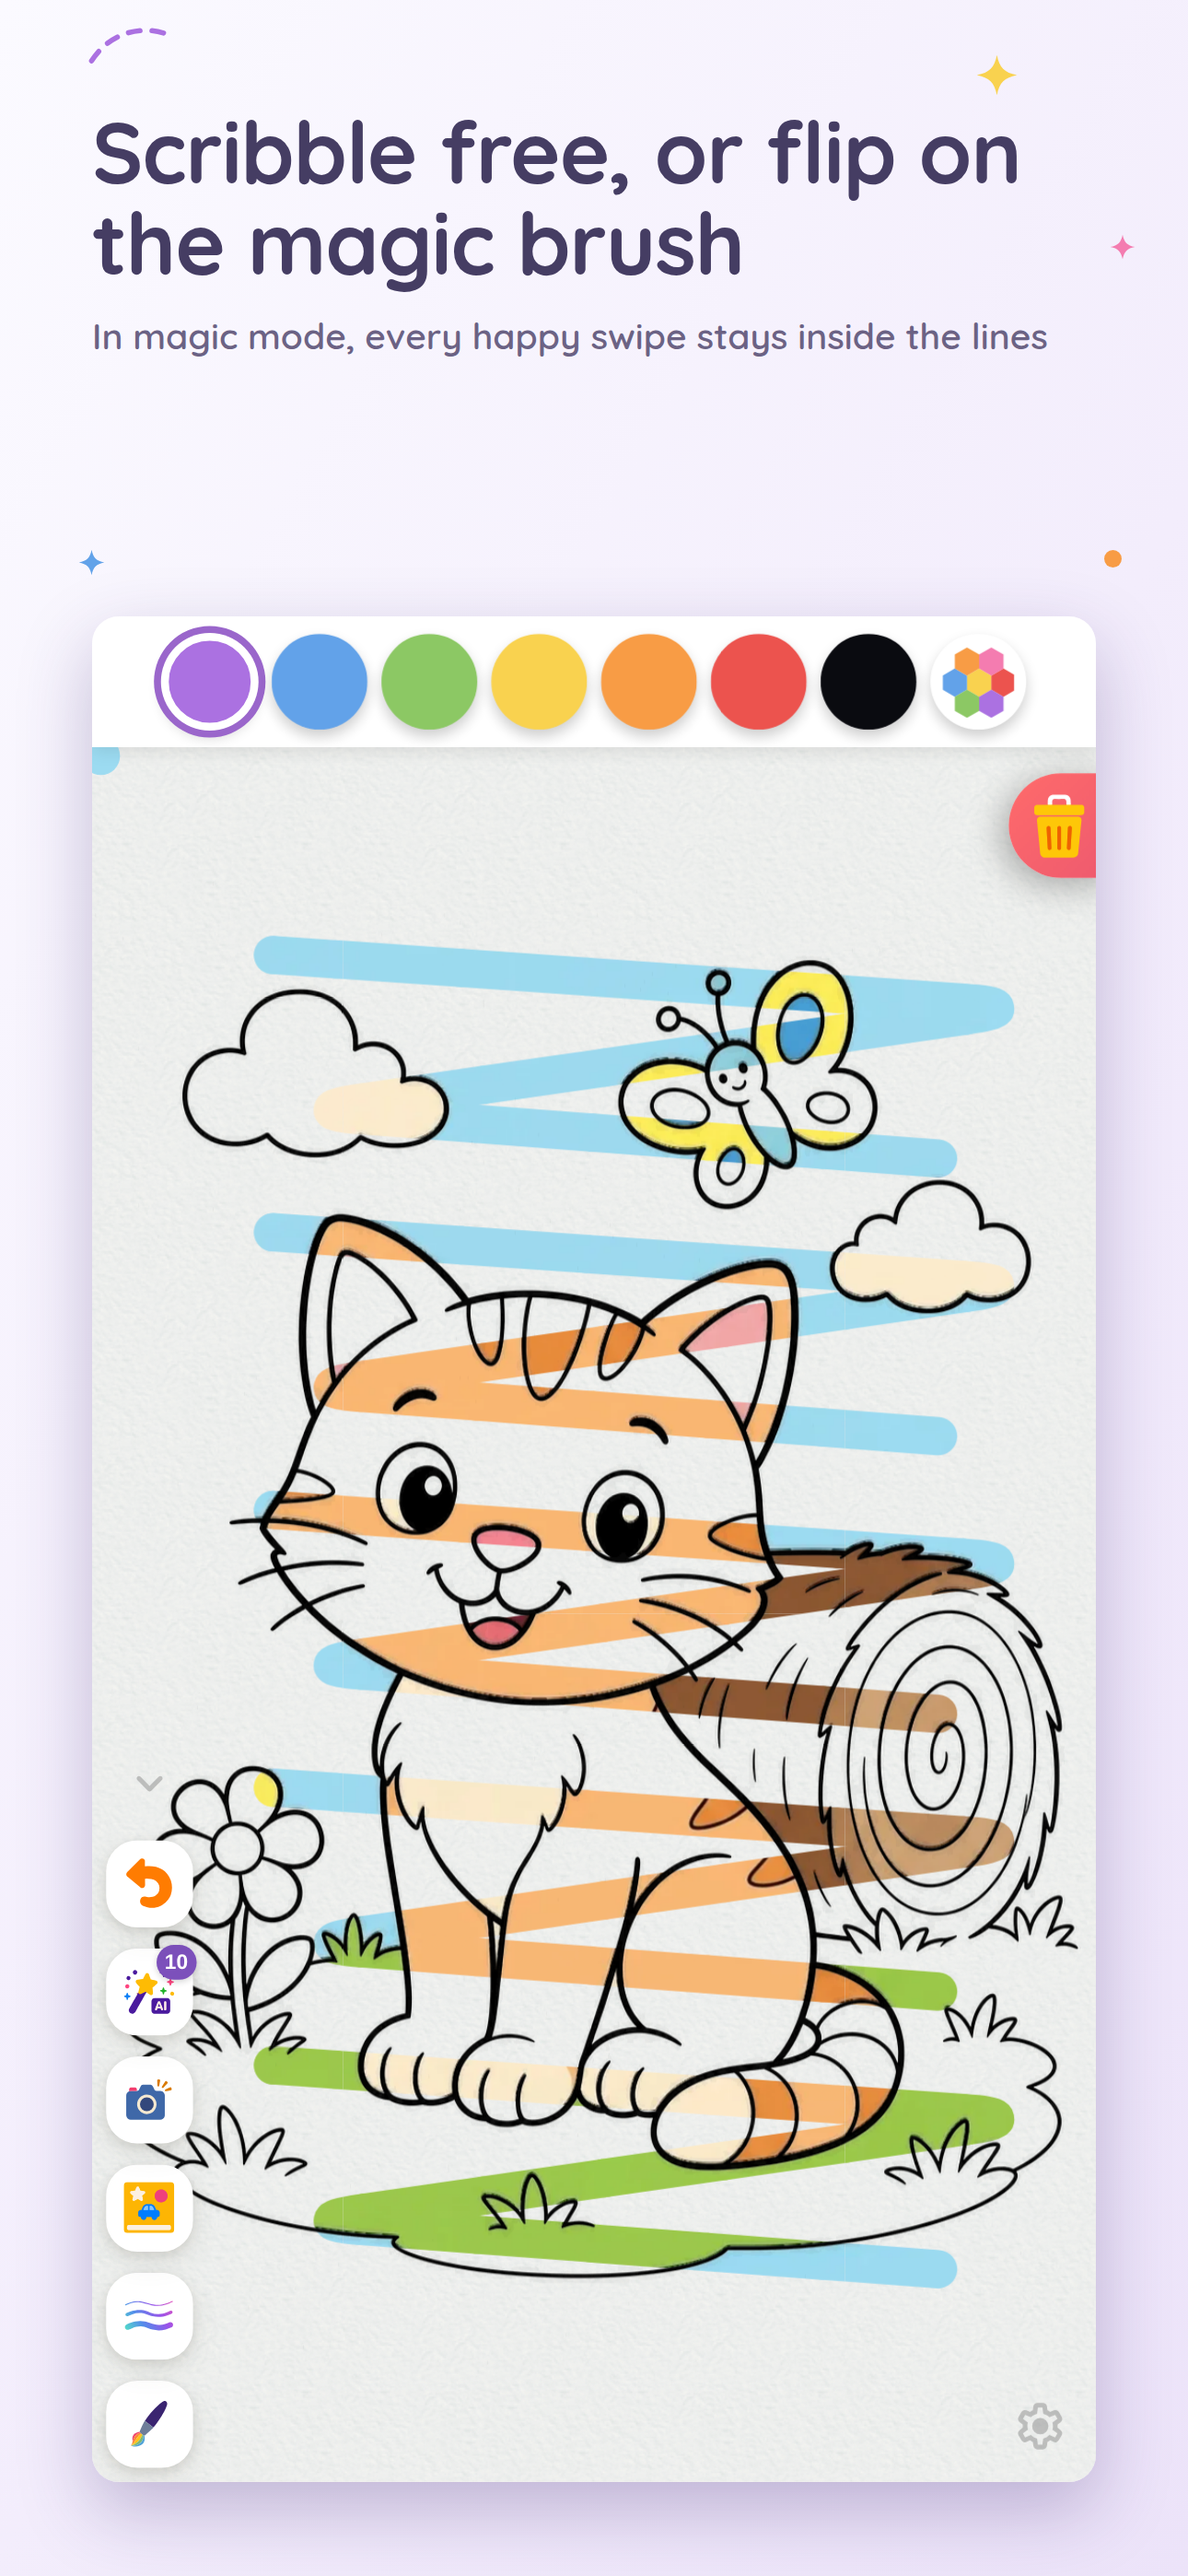
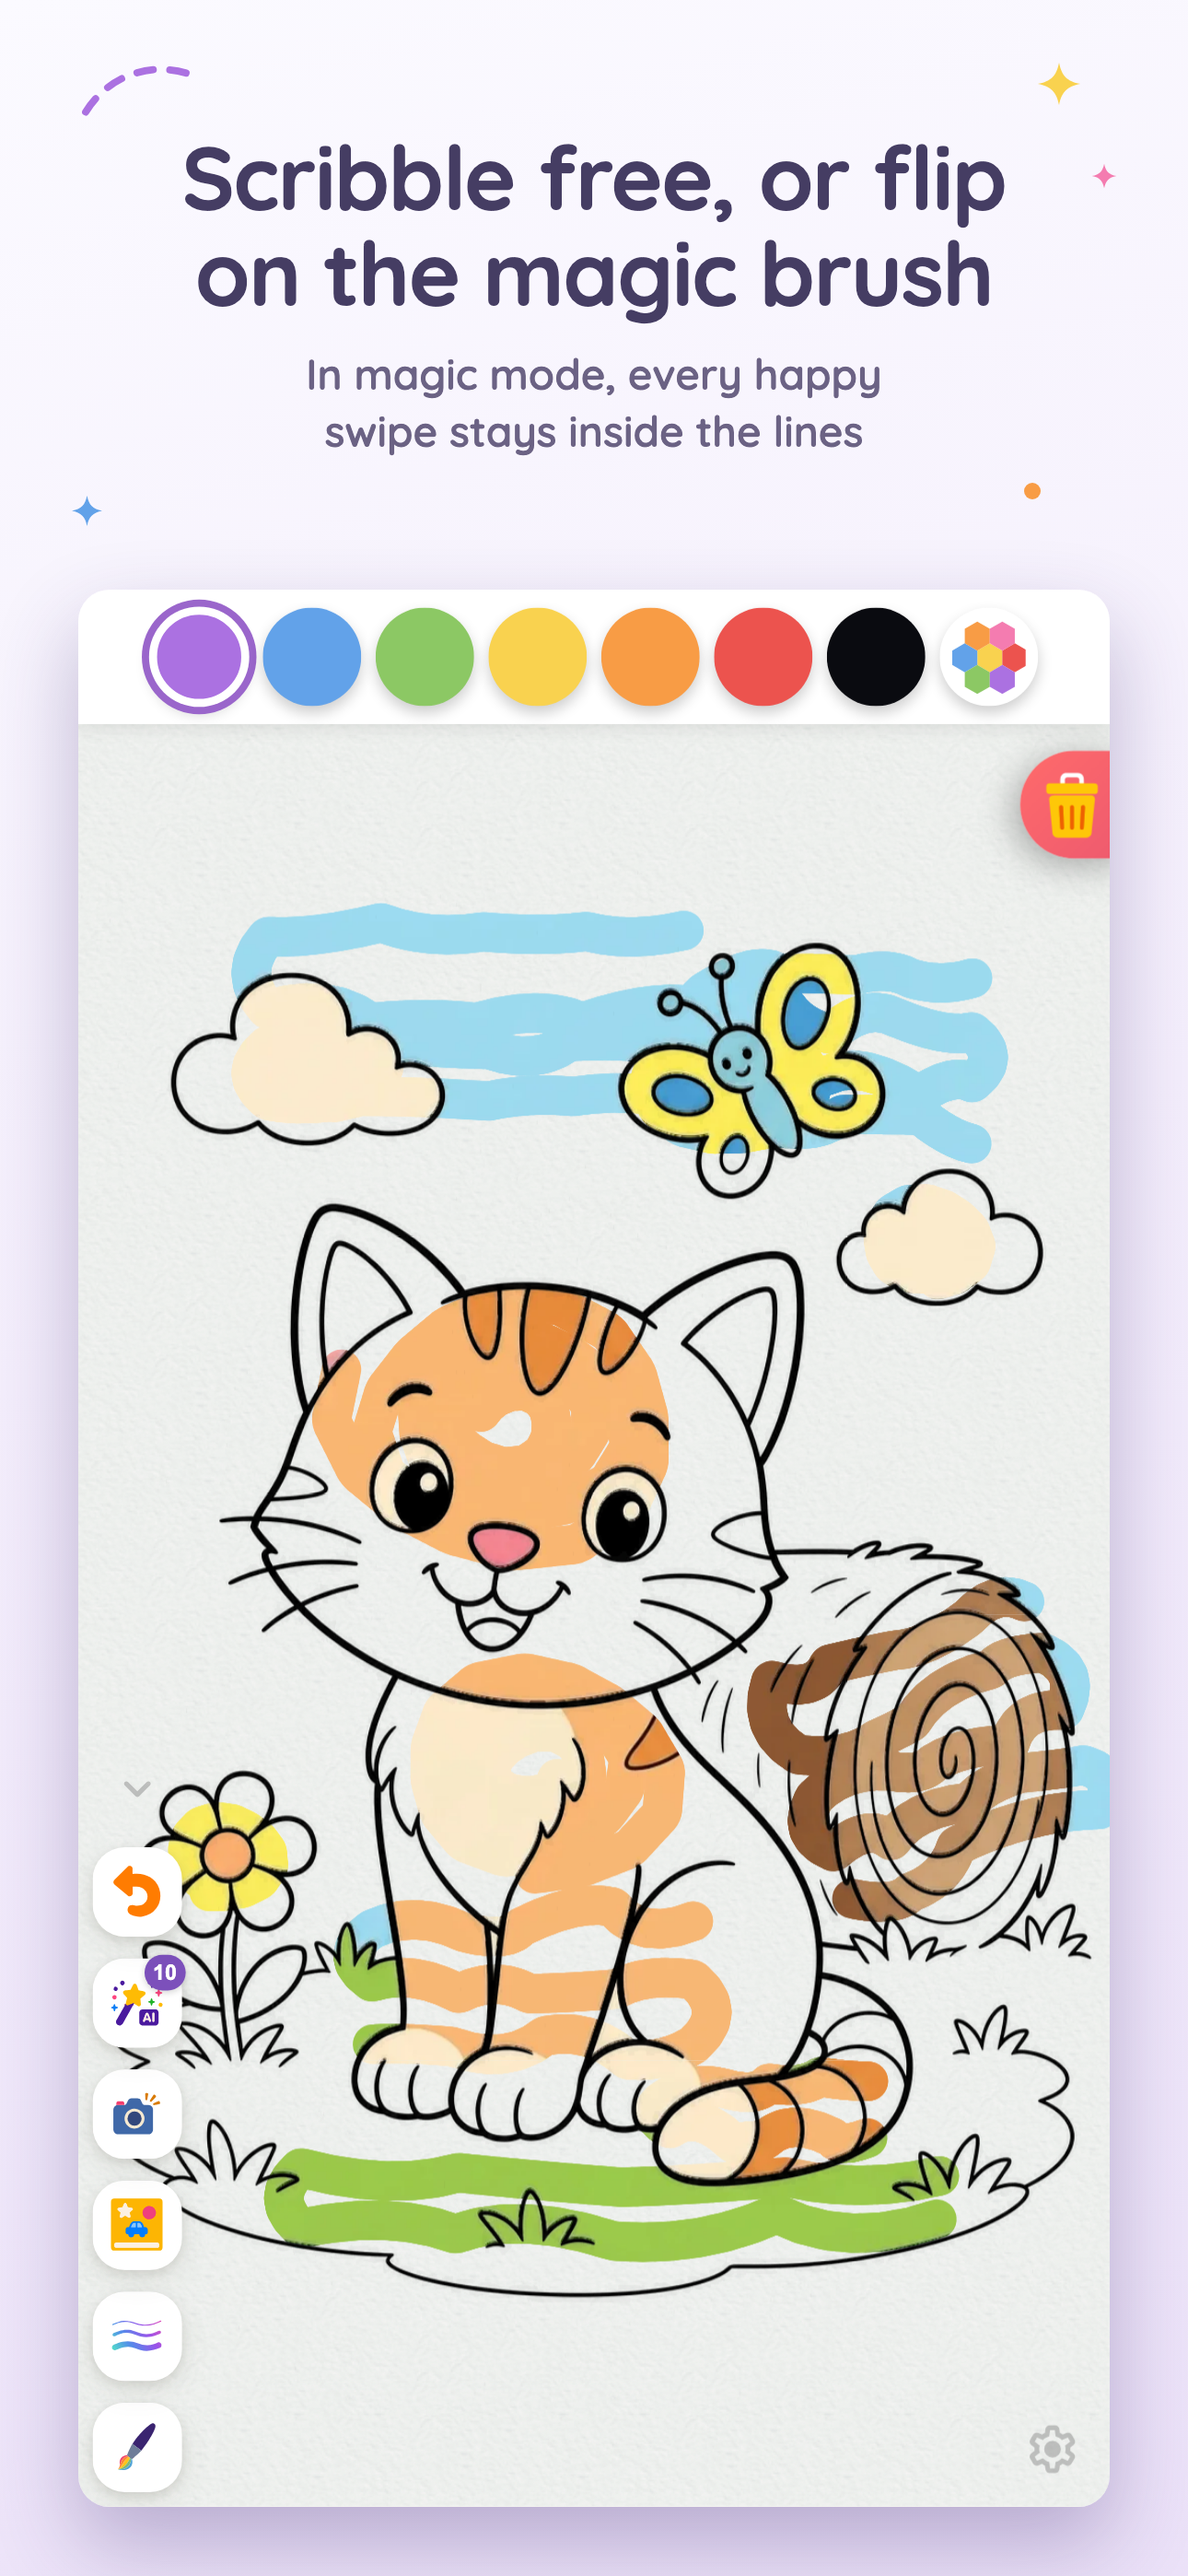
Tune scribble coverage, balance copy, and regenerate every store slot
Iteration against the real renders: spirals start nearer their centers with
extra turns (the mock's blur fattening doesn't exist on the real brush),
sceneMagic drops its dismissMenu (both flyouts close on pick, and the canvas
click was revealing a dot in the paper corner), headlines and subtext get
text-wrap: balance in both orientations, the landscape connector stones lead
into the wand's star, and the landscape showcase re-centers vertically in the
iPad's taller 4:3 slot. All 20 screenshots plus the tablet7 copies
regenerated; docs updated for the new page stories.

diff --git a/store-assets/README.md b/store-assets/README.md
@@ -29,23 +29,24 @@ asset catalog.
 
 ## The screenshot design
 
-Each screenshot is a **captioned marketing frame** (2026-08 design refresh): a real app capture in a
-rounded card over a soft gradient, with a headline + subtext copy block, hand-drawn crayon doodle
-marks in the whitespace, and (page 1 only) the logo row and benefit chips. Landscape puts the copy
-in a left column with the app frame bleeding off the right edge; portrait stacks the copy block on
-top with the frame below, fully visible. Page 4 is a composed doodle→masterpiece showcase; page 5 is
-the one dark-mode frame. The design system — geometry, copy, marks, colors — lives in
-`tools/marketing-assets/lib/store-frames.mjs`.
+Each screenshot is a **captioned marketing frame** (2026-08 design refresh, portrait reflowed to the
+portrait v2 handoff): a real app capture in a rounded card over a soft gradient, with a headline +
+subtext copy block, hand-drawn crayon doodle marks in the whitespace, and (page 1 only) the logo row
+and benefit chips. Landscape puts the copy in a left column with the app frame bleeding off the
+right edge; portrait centers the copy in a zone above the frame, fully visible below. Page 4 is a
+composed doodle→masterpiece showcase joined by a stepping-stone connector (palette dots in, growing
+sparkles out); page 5 is the one dark-mode frame. The design system — geometry, copy, marks, colors
+— lives in `tools/marketing-assets/lib/store-frames.mjs`.
 
 ## What each screenshot shows
 
-| #  | File             | Story                                                                                                                                                       |
-| -- | ---------------- | ----------------------------------------------------------------------------------------------------------------------------------------------------------- |
-| 01 | `01-draw.png`    | Hero: a child's drawing mid-session (island on phones, party-hat dinosaur on tablets), full UI, logo + chips (Ages 2+ · Works offline · Free & open source) |
-| 02 | `02-books.png`   | The Coloring Books picker showing all 8 real cover thumbs                                                                                                   |
-| 03 | `03-magic.png`   | A Farm cat page ~85% revealed by magic-brush swipes, magic brush active in the toolbar                                                                      |
-| 04 | `04-ai.png`      | Doodle → AI masterpiece showcase: a real drawing, the real generation it produced, the wand-stars icon                                                      |
-| 05 | `05-parents.png` | Dark mode: Settings open on Parent Center's grown-up-check policy matrix                                                                                    |
+| #  | File             | Story                                                                                                                                                                       |
+| -- | ---------------- | --------------------------------------------------------------------------------------------------------------------------------------------------------------------------- |
+| 01 | `01-draw.png`    | Hero: a child's drawing mid-session (island on phones, party-hat dinosaur on tablets), full UI with enlarged action buttons, logo + chips (Ages 2+ · offline · open source) |
+| 02 | `02-books.png`   | The Coloring Books picker showing all 8 real cover thumbs (two tall columns on portrait, the app's own tall-portrait grid)                                                  |
+| 03 | `03-magic.png`   | A Farm cat page ~85% revealed by natural child scribbles in magic mode, magic brush active in the toolbar                                                                   |
+| 04 | `04-ai.png`      | Doodle → AI masterpiece showcase: a real drawing, the real generation it produced, the wand-stars icon                                                                      |
+| 05 | `05-parents.png` | Dark mode: Settings open on the Tool Drawer section — advanced controls on, one tool hidden, the button-size slider live                                                    |
 
 The AI showcase uses a real input/output pair from the model bake-off
 (`scrapbook/model-eval/prompt-adherence/assets/`), so the "AI-generated picture" shown is an actual
@@ -93,9 +94,9 @@ Iterate on a subset with `--target` / `--page` substring filters, e.g.
   by Play, which applies its own shape mask. iOS icons must not have alpha; `@capacitor/assets`
   flattens them when generating the asset catalog. If you prefer a colored backdrop behind the "S",
   regenerate the source and re-run.
-* **Screenshot claims must match the build.** Page 1's chips (Ages 2+, offline, open source) and
-  page 5's armed guardrail radios are marketing claims — page 5 seeds the policy states a store
-  build ships with, since the web build defaults every check to off.
+* **Screenshot claims must match the build.** Page 1's chips (Ages 2+, offline, open source) are
+  marketing claims, and page 5's Tool Drawer capture seeds a parent mid-curation (advanced controls
+  on, the Stroke width tool hidden, button size raised to match page 1's enlarged buttons).
 * **Description must match the privacy declarations.** The full description mentions the optional AI
   upload; make sure that lines up with the Play Data safety form and the App Store privacy nutrition
   label (see the `mobile` skill).

diff --git a/tools/marketing-assets/README.md b/tools/marketing-assets/README.md
@@ -26,12 +26,13 @@ command replaces the committed PNG only after the live-app replay succeeds.
 
 ## Store assets
 
-`gen-store-assets.mjs` drives the app scenes (hero drawing, book grid, magic reveal, Parent Center)
-per store target and composes each capture into its captioned marketing frame at the exact Google
-Play and App Store pixel sizes under `store-assets/`. The frame design system — per-target geometry,
-page copy, crayon-doodle marks, and the composed page-4 AI showcase — lives in
-`lib/store-frames.mjs`. `--target` / `--page` substring filters narrow a run for iteration. See
-`store-assets/README.md` for what each page shows and the publishing runbook.
+`gen-store-assets.mjs` drives the app scenes (hero drawing, book grid, magic scribble reveal, Tool
+Drawer) per store target and composes each capture into its captioned marketing frame at the exact
+Google Play and App Store pixel sizes under `store-assets/`. The frame design system — per-target
+geometry, per-orientation type scale, page copy, crayon-doodle marks, and the composed page-4 AI
+showcase — lives in `lib/store-frames.mjs`; the magic scene's seeded scribble paths live in
+`tools/store-drawings/lib/magic-scribbles.mjs`. `--target` / `--page` substring filters narrow a run
+for iteration. See `store-assets/README.md` for what each page shows and the publishing runbook.
 
 ## Prerequisites and failure behavior
 
